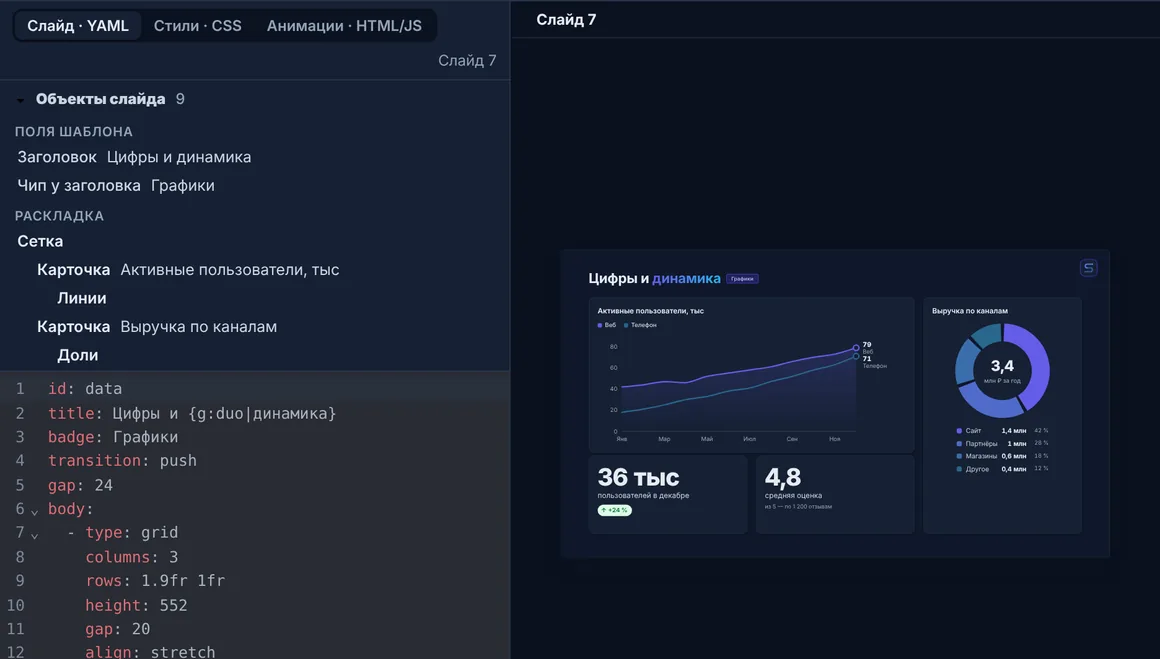
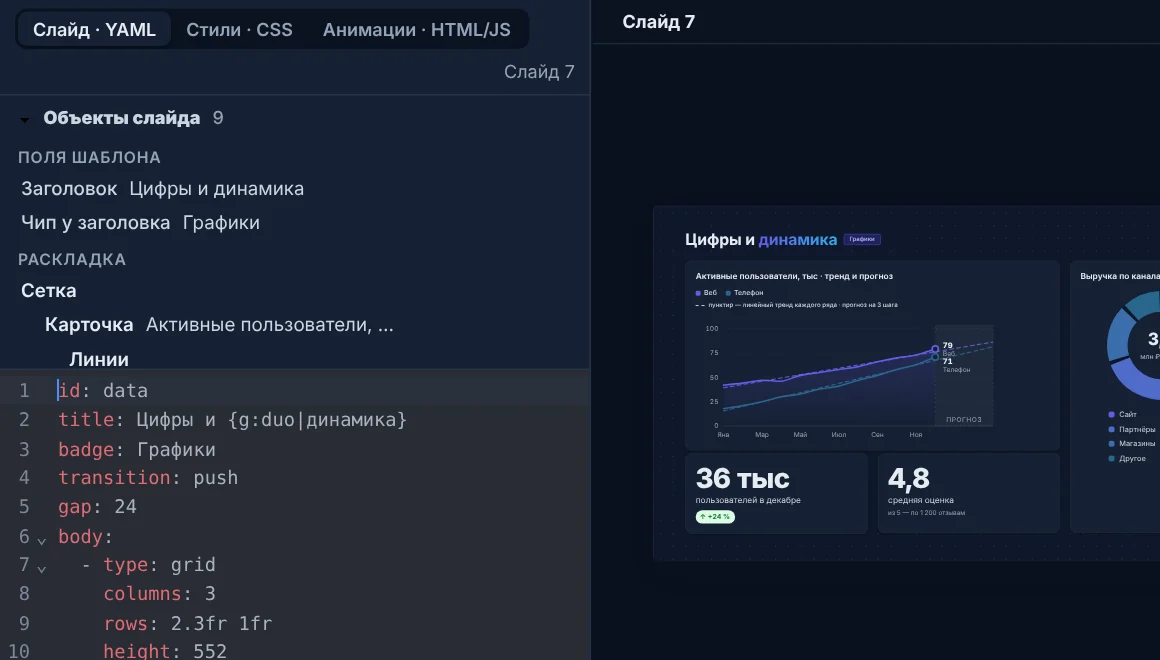
Шаблон с примерами: новые возможности, три новых слайда, свежие снимки студии
- Подсказки и места кнопок — как в студии сейчас: «Файл → Экспорт», «Вид → Код слайда»,
  «Файл → Версии»; цифры пересчитаны по коду: 23 вида схем, 12 видов диаграмм, 16 заготовок
  уравнений, отмена — до 500 шагов. «Перетащите» → «переместите», без лишних упоминаний Claude
- «С чего начать» — карточка агента (Ctrl+J, «Файл → Интеграции»); «Цифры и динамика» — тренд
  и прогноз на графике; «Путь к запуску» — шаги стрелками и подсказка про «Вид»; «Фото в стиле
  презентации» — снимки в звезде и сердце («Рисунок → Форма»); «Эффекты» — бегущий свет и матовое
  стекло; «Связки» — агенты по MCP, скрипты, журнал правок и «Вернуть»; «Показ и экспорт» — размер
  слайда, «PowerPoint 2007», «Файл → Версии»
- Новые слайды: «Сроки и риски» (Ганта и матрица рисков), «Схема из текста» (блок-схема из строк,
  соединитель, «Разобрать на фигуры»), «Проверка прямо на слайде» (тест и карточки). Всего 34 слайда
- Снимки студии переснятые, светлые и тёмные: студия с «Файлом» и агентом; в галерее — «Файл →
  Экспорт», «Файл → Версии» и «Код слайда» вместо устаревших «Сводки» и «Настроить ленту»
- Тесты: номера слайдов шаблона после вставки новых; README — 34 слайда и состав примеров

Claude-Session: https://claude.ai/code/session_01GftsZaKVp4igw2ytT8Njke

diff --git a/tests/e2e/edit.spec.ts b/tests/e2e/edit.spec.ts
@@ -210,7 +210,7 @@ test('правка рядом не создаёт заново видео, 3D-м
     await page.mouse.up();
   };
   // Слайд «Медиа»: видео, 3D-модель и живой фон; сдвигаем картинку
-  await page.goto('/?deck=tpl&studio#20');
+  await page.goto('/?deck=tpl&studio#23');
   await expect(page.locator('#st-canvas .slide.on model-viewer')).toHaveCount(1);
   await expect(page.locator('#st-canvas .slide.on .backdrop canvas')).toHaveCount(1);
   expect(await mark()).toEqual({ video: false, 'model-viewer': false, '.backdrop': false });
@@ -224,7 +224,7 @@ test('правка рядом не создаёт заново видео, 3D-м
   await expect(page.locator('#st-canvas .slide.on .backdrop canvas')).toHaveCount(1);
   // Слайд с живой вставкой: её документ не перезагружается
   await page.locator('#st-canvas').click({ position: { x: 4, y: 4 } });
-  await page.evaluate(() => { location.hash = '#22'; });
+  await page.evaluate(() => { location.hash = '#25'; });
   await expect(page.locator('#st-canvas .slide.on iframe')).toHaveCount(1);
   expect((await mark()).iframe).toBe(false);
   await nudge();

diff --git a/README.md b/README.md
@@ -33,7 +33,7 @@ yarn build      # собрать все презентации в dist/<имя>.
 | `yarn build memes --compact` | Картинки сжаты в WebP (GIF — в анимированный WebP): файл заметно меньше, видео и модели как есть |
 | `yarn build memes --look=dark --motion` | «Как на этом компьютере»: файл открывается с тёмными (`--look=light` — светлыми) слайдами, а не как в системе зрителя, и показывает анимации, даже если там включено «Уменьшить движение» |
 | `yarn present microclimate` | Показ с пультом на телефоне: собрать и раздать в локальной сети (нажмите R в показе — будет QR) |
-| `yarn new q3-report "Итоги квартала"` | Новая презентация из шаблона `templates/basic`: 31 слайд — титул, путеводитель по студии и примеры — графики, схемы, анимация по щелчку, морф, формулы, интерактив, галерея и аудиовизуализатор, эффекты, темы, автопоказ. На слайдах с возможностями внизу — «Как сделать»: что нажать, чтобы получить так же |
+| `yarn new q3-report "Итоги квартала"` | Новая презентация из шаблона `templates/basic`: 34 слайда — титул, путеводитель по студии и примеры — графики с трендом и прогнозом, схемы, Гант и риски, схема из текста, анимация по щелчку, морф, формулы, тест и карточки, интерактив, галерея и аудиовизуализатор, эффекты (бегущий свет, матовое стекло), темы, агенты, автопоказ. На слайдах с возможностями внизу — «Как сделать»: что нажать, чтобы получить так же |
 | `yarn merge-html файл.html [имя]` | Импорт HTML: экспорт Claude Design, свой HTML по [правилам](docs/HTML.md) или правки из собранного файла. `--dry-run` — только показать, что изменится, `--no-theme` — не привязывать цвета к теме |
 | `yarn import-pptx файл.pptx [имя]` | Импорт PowerPoint: новая презентация, каждый слайд — холст с объектами на своих местах. `--dry-run` — только отчёт, `--themes` — под темы Slideria (цвета и шрифты меняются вместе с темой) |
 | `yarn bind-theme имя` | Привязать цвета импортированной вёрстки к теме (тёмная тема, смена акцента) |
@@ -133,7 +133,7 @@ yarn perf --only edit --trace      # и запись работы браузер
 Программа запускается во временных папках, как в `yarn test:app`. Замеряется:
 
 - **запуск**: первый после установки (кэша сервера ещё нет) и обычный — окно, сервер, страница выбора;
-- **студия** на «Моей первой презентации» (шаблон, 31 слайд): построена, готова к работе, сколько файлов загружено;
+- **студия** на «Моей первой презентации» (шаблон, 34 слайда): построена, готова к работе, сколько файлов загружено;
 - **правка**: перетаскивание фигуры, схем, группы, картинки, всех объектов слайда, фигуры с соединителями,
   диаграммы из текста, графика (объекты, которых нет в шаблоне, — в `tests/perf/objects`); растягивание схемы,
   отпускание, отмена, листание слайдов. Нажатие (до начала движения), кадр во время перетаскивания (60 кадров/с —
